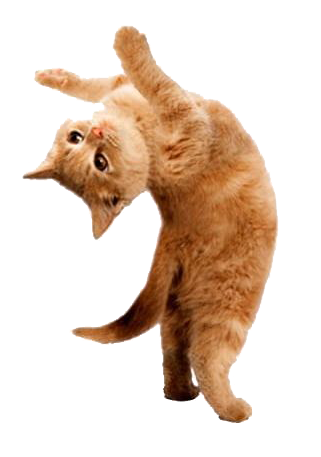
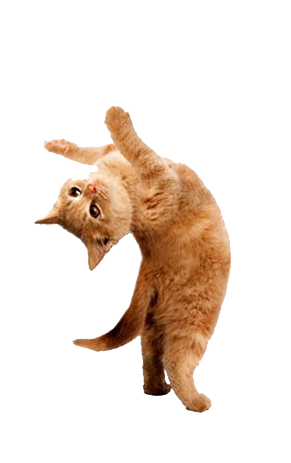
More dancing cats

diff --git a/src/DanceCat.js b/src/DanceCat.js
@@ -1,0 +1,67 @@
+import * as PIXI from 'pixi.js';
+import Between from 'between.js';
+import Easing from 'easing-functions';
+
+import ScreenSize from './ScreenSize';
+
+let sprite = null;
+
+export default class TextDisplay extends PIXI.Container {
+
+  constructor(props) {
+    super(props);
+
+    sprite = PIXI.Sprite.from(props.file + '.png');
+    sprite.anchor.set(0.5);
+    sprite.scale.x = sprite.scale.y = 1.2;
+    this.addChild(sprite);
+
+    new Between(-10, 10).time(500 + Math.random() * 100)
+      .easing(Between.Easing.Elastic.InOut)
+      .loop('bounce')
+      .on('update', (value) => {
+        this.angle = value;
+      });
+
+    setTimeout(() => this.move(true), 1);
+    setTimeout(() => this.flip(), 2000);
+
+    this.visible = true;
+  }
+
+  move(center) {
+    var pos = { 
+      x: this.x + Math.random() * 600 - 300, 
+      y: this.y + Math.random() * 200 - 100,
+      scale: 0.8 + Math.random() * 0.5
+    };
+
+    if (pos.x < window.innerWidth * 0.1 || pos.x > window.innerWidth * 0.9 || center) pos.x = ScreenSize.width/2;
+    if (pos.y < window.innerHeight * 0.3 || pos.y > window.innerHeight * 0.7 || center) pos.y = ScreenSize.height/2;
+
+    // https://github.com/sasha240100/between.js
+    new Between({ x: this.x, y: this.y, scale: sprite.scale.x }, pos).time(center ? 4000 : 1000)
+      .easing(Between.Easing.Cubic.InOut)
+      .on('update', (value) => {
+        this.x = value.x;
+        this.y = value.y;
+        sprite.scale.x = sprite.scale.y = value.scale;
+      })
+      .on('complete', (value) => {
+        this.move();
+      });
+
+    this.visible = true;
+  }
+
+  flip() {
+    new Between(this.scale.x, -this.scale.x).time(300)
+      .easing(Between.Easing.Bounce.Out)
+      .on('update', (value) => {
+        this.scale.x = value;
+      })
+      .on('complete', (value) => {
+        setTimeout(() => this.flip(), 2000 + Math.random() * 1000);
+      });
+  }
+}

diff --git a/src/JazzScene.js b/src/JazzScene.js
@@ -2,6 +2,7 @@ import * as PIXI from 'pixi.js';
 
 import Scene from './Scene';
 import SaxCat from './SaxCat';
+import DanceCat from './DanceCat';
 
 let saxcat = null;
 
@@ -13,6 +14,13 @@ export default class JazzScene extends Scene {
     let texture = PIXI.Texture.from('jazzbar.jpg');
     let bg = PIXI.Sprite.from(texture);
     this.addChild(bg);
+  }
+
+  init() {
+
+    this.addChild(new DanceCat({ file: "dancing_cat1" }));
+    this.addChild(new DanceCat({ file: "dancing_cat2" }));
+    this.addChild(new DanceCat({ file: "dancing_cat3" }));
 
     let saxcat = new SaxCat();
     saxcat.x = this.width * 2;

diff --git a/src/TextDisplay.js b/src/TextDisplay.js
@@ -60,13 +60,13 @@ export default class TextDisplay extends PIXI.Container {
     text.x = window.innerWidth/2;
     text.y = window.innerHeight/2;
 
-    new Between(0, 1).time(500)
-      .easing(Between.Easing.Cubic.InOut)
+    new Between(0, 1).time(700)
+      .easing(Between.Easing.Elastic.Out)
       .on('update', (value) => {
         text.scale.x = text.scale.y = value;
       })
       .on('complete', (value) => {
-        setTimeout(() => this.nextLine(), 1200 + line.length * 140);
+        setTimeout(() => this.nextLine(), 800 + line.length * 140);
       });
   }
 

diff --git a/src/index.js b/src/index.js
@@ -60,4 +60,5 @@ function onAssetsLoaded () {
   td = new TextDisplay();
   app.stage.addChild(td);
   resize();
+  scene.init();
 }
